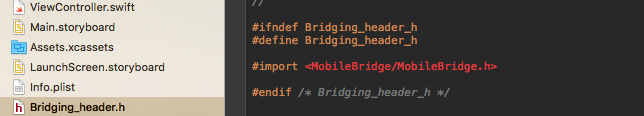
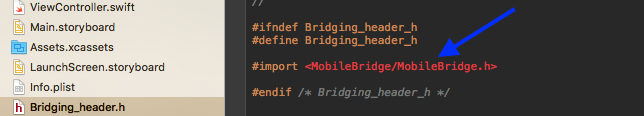
Updated readme and assets

Changed region(s): [[0.6832, 0.0776, 0.8075, 0.4914]]

diff --git a/Integration/README.md b/Integration/README.md
@@ -1,15 +1,15 @@
 # MobileBridge Integration in Swift Project #
 
 **Note**: this page assumes you have already downloaded `MobileBridge` framework and `AWS-iOS-SDK`.
-
 ## Requirements ##
 
 A `Client-Key` and `Client-Secret` are required to use the `MobileBridge` framework.
+
 Requires `XCode 7` or higher, `iOS 8.0` and above. Built using `ARC`.
 
 ## Integration ##
 
-* Add `MobileBridge.framework`, `MobileBridge.bundle` and `aws-ios-sdk-xxx` to your project.
+* Add `MobileBridge.framework`, `MobileBridge.bundle` and `AWS-iOS-SDK-xxx` to your project.
 * Make sure following frameworks are added in `Xcode` project's `Build Phases`:
   * `MessageUI.framework` 
   * `CoreMedia.framework`
@@ -33,10 +33,9 @@ Requires `XCode 7` or higher, `iOS 8.0` and above. Built using `ARC`.
   * `-lsqlite3.0` 
   * `-lxml2`
 
-* Add `Bridging-Header` to your project:
-Add new `header` file by performing `XCode`->`New File`->`Header File`.
+* Add `Bridging-Header` to your project by performing `XCode`->`New File`->`Header File`.
 
-* Import `MobileBridge.h` in newly created header file:
+* Import `MobileBridge.h` in newly created header `Bridging-Header` file:
 <p align="center">
 <img align="center" src="images/import_mobile_bridge_header.png" alt="Import MobileBridge header">
 </p>
